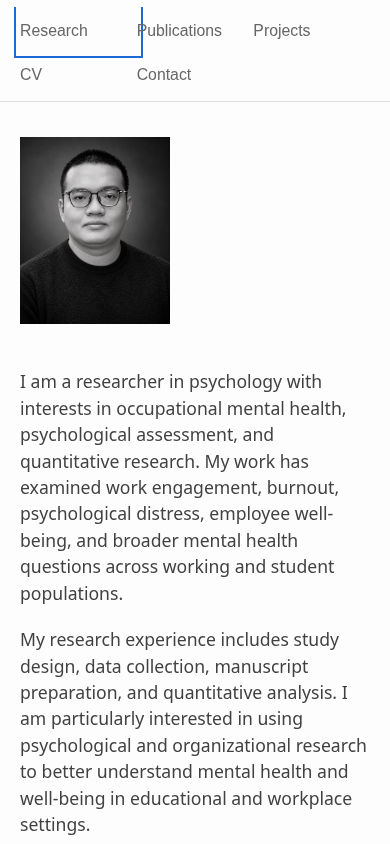
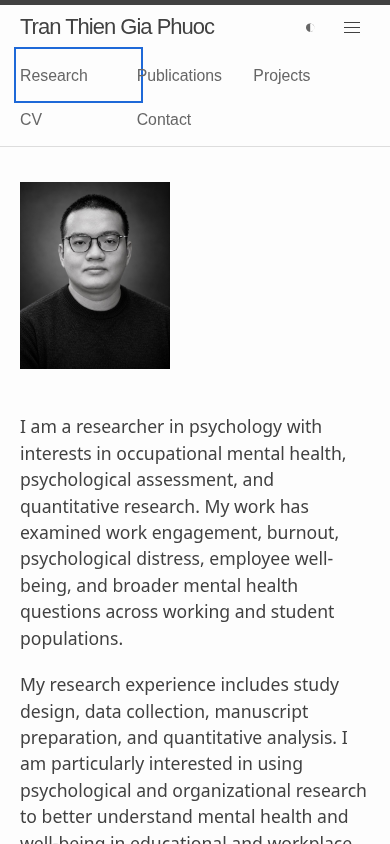
Extend approved editorial design to all academic pages

Changed region(s): [[0.0, 0.0, 1.0, 1.0]]

diff --git a/_sass/custom.scss b/_sass/custom.scss
@@ -325,3 +325,28 @@ img { max-width: 100%; height: auto; }
   #main { display: block; max-width: none; margin: 0; padding: 0; }
   body.editorial-site { font-size: 11pt; background: #fff; color: #000; }
 }
+
+/* Page-specific academic records, sharing the approved editorial foundation. */
+.section-nav { display: flex; flex-wrap: wrap; gap: 0.4rem 1.2rem; margin: 1.5rem 0 2rem; padding: 0.7rem 0; border-top: 1px solid var(--rule); border-bottom: 1px solid var(--rule); font-size: 0.8125rem; }
+.publication-stats { display: grid; grid-template-columns: repeat(4, minmax(0, 1fr)); gap: 1rem 1.5rem; margin: 1.6rem 0 1rem; padding: 1rem 0; border-top: 1px solid var(--rule); border-bottom: 1px solid var(--rule); }
+.publication-stat { display: flex; align-items: baseline; gap: 0.6rem; min-width: 0; }
+.publication-stat__value { font-size: 1.15rem; }
+.publication-stat__label { color: var(--text-muted); font-size: 0.75rem; }
+.page__content .publication-stats-note { font-size: 0.75rem; color: var(--text-muted); }
+.publication-card { margin: 0 0 1.6rem; padding: 0; border: 0; background: transparent; }
+.publication-citation > p { margin: 0 0 0.4rem; padding-left: 1.4rem; text-indent: -1.4rem; }
+.publication-meta { display: flex; flex-wrap: wrap; gap: 0.3rem 0.8rem; margin-left: 1.4rem; color: var(--text-muted); font-size: 0.75rem; }
+.publication-badge { display: inline; padding: 0; border: 0; font-weight: 400; }
+.project-card { margin: 0 0 2.5rem; padding: 0; border: 0; background: transparent; }
+.project-card + .project-card { padding-top: 0.5rem; border-top: 1px solid var(--rule); }
+.project-details { display: grid; grid-template-columns: 10rem minmax(0, 1fr); gap: 0.4rem 1rem; margin: 1.2rem 0; font-size: 0.9rem; }
+.project-details dt { font-weight: 500; color: var(--text-muted); }
+.project-details dd { margin: 0; overflow-wrap: anywhere; }
+@media (max-width: 639px) {
+  .publication-stats { grid-template-columns: repeat(2, minmax(0, 1fr)); gap: 1rem; }
+  .project-details { grid-template-columns: 1fr; gap: 0.25rem; }
+  .project-details dd { margin-bottom: 0.65rem; }
+  .cv-actions .btn { min-height: 44px; display: inline-flex; align-items: center; }
+}
+.project-card h2 { font-size: 1.25rem; }
+.project-details dt, .project-details dd { margin-top: 0; font-size: 0.9rem; line-height: 1.6; }

diff --git a/_pages/publications.md b/_pages/publications.md
@@ -2,7 +2,7 @@
 permalink: /publications/
 title: "Publications"
 description: "Peer-reviewed publications, ongoing work, conference papers, DOI links, and indexing information from the academic CV of Tran Thien Gia Phuoc."
-author_profile: true
+author_profile: false
 ---
 
 This page follows the publication list in my academic CV last synchronized on **{{ site.data.cv_sync_state.cv_date | default: "2026-10-17" | date: "%-d %B %Y" }}**. Publication counts and indexing summaries below are generated automatically from the metadata attached to each entry.
@@ -18,11 +18,11 @@ This page follows the publication list in my academic CV last synchronized on **
 {% assign esci = published | where: "esci", true %}
 
 <div class="publication-stats" aria-label="Publication statistics">
-  <div class="publication-stat publication-stat--green">
+  <div class="publication-stat">
     <span class="publication-stat__value">{{ original_research | size }}</span>
     <span class="publication-stat__label">Original Research</span>
   </div>
-  <div class="publication-stat publication-stat--purple">
+  <div class="publication-stat">
     <span class="publication-stat__value">{{ conference_papers | size }}</span>
     <span class="publication-stat__label">Conference Papers</span>
   </div>
@@ -42,17 +42,17 @@ This page follows the publication list in my academic CV last synchronized on **
     <span class="publication-stat__value">{{ q4 | size }}</span>
     <span class="publication-stat__label">SCOPUS Q4</span>
   </div>
-  <div class="publication-stat publication-stat--index">
+  <div class="publication-stat">
     <span class="publication-stat__value">{{ ssci | size }}</span>
     <span class="publication-stat__label">SSCI</span>
   </div>
-  <div class="publication-stat publication-stat--index">
+  <div class="publication-stat">
     <span class="publication-stat__value">{{ esci | size }}</span>
     <span class="publication-stat__label">ESCI</span>
   </div>
 </div>
 
-<p class="publication-stats-note"><i class="fa-solid fa-circle-info" aria-hidden="true"></i> Counts include published outputs only. Ongoing work is displayed below but excluded from the statistics. “Original Research” excludes entries classified as reviews or conference papers. Q1–Q4 counts refer specifically to Scopus quartiles recorded in the publication metadata.</p>
+<p class="publication-stats-note">Counts include published outputs only. Ongoing work is displayed below but excluded from the statistics. “Original Research” excludes entries classified as reviews or conference papers. Q1–Q4 counts refer specifically to Scopus quartiles recorded in the publication metadata.</p>
 
 {% assign ongoing = site.data.publications | where: "status", "ongoing" %}
 {% if ongoing.size > 0 %}
@@ -84,7 +84,7 @@ This page follows the publication list in my academic CV last synchronized on **
     {% if pub.ssci %}<span class="publication-badge publication-badge--index">SSCI</span>{% endif %}
     {% if pub.esci %}<span class="publication-badge publication-badge--index">ESCI</span>{% endif %}
     {% if pub.scopus_quartile %}<span class="publication-badge publication-badge--scopus">SCOPUS {{ pub.scopus_quartile }}{% if pub.scopus_quartile_year %} · {{ pub.scopus_quartile_year }}{% endif %}</span>{% endif %}
-    {% if pub.doi %}<a class="publication-badge publication-badge--doi" href="{{ pub.doi }}" rel="noopener noreferrer"><i class="fa-solid fa-arrow-up-right-from-square" aria-hidden="true"></i> DOI</a>{% endif %}
+    {% if pub.doi %}<a class="publication-badge publication-badge--doi" href="{{ pub.doi }}" rel="noopener noreferrer">DOI</a>{% endif %}
   </div>
   {% endif %}
 </article>

diff --git a/_pages/projects.md b/_pages/projects.md
@@ -2,25 +2,26 @@
 permalink: /projects/
 title: "Projects"
 description: "Research projects involving occupational, behavioral, and psychological research, including project roles, funding, methods, and outcomes."
-author_profile: true
+author_profile: false
 ---
 
-This page presents the research projects listed in my academic CV dated **2 March 2026**. Project details are generated from a single structured data source used across the website and CV.
+This page presents the research projects listed in my academic CV last synchronized on **{{ site.data.cv_sync_state.cv_date | date: "%-d %B %Y" }}**. Project details are generated from a single structured data source used across the website and CV.
 
 {% for project in site.data.projects %}
-{% assign project_tone = forloop.index0 | modulo: 5 | plus: 1 %}
-<section class="project-card project-card--{{ project_tone }}" data-project-id="{{ project.id }}" markdown="1">
+<section class="project-card" data-project-id="{{ project.id }}" markdown="1">
 
 ## {{ project.title }}
 
-**Period:** {{ project.period }} [{{ project.status }}]  
-**Role:** {{ project.role }}  
-**Institution:** {{ project.institution }}  
-**Project type:** {{ project.project_type }}  
-**Project code:** {{ project.project_code }}  
-**Principal Investigator:** {{ project.principal_investigator }}  
-**Funding:** {{ project.funding_vnd }} ({{ project.funding_usd }})  
-**Outcome:** {{ project.outcome }}
+<dl class="project-details">
+  <dt>Period</dt><dd>{{ project.period }} [{{ project.status }}]</dd>
+  <dt>Role</dt><dd>{{ project.role }}</dd>
+  <dt>Institution</dt><dd>{{ project.institution }}</dd>
+  <dt>Project type</dt><dd>{{ project.project_type }}</dd>
+  <dt>Project code</dt><dd>{{ project.project_code }}</dd>
+  <dt>Principal Investigator</dt><dd>{{ project.principal_investigator }}</dd>
+  <dt>Funding</dt><dd>{{ project.funding_vnd }} ({{ project.funding_usd }})</dd>
+  <dt>Outcome</dt><dd>{{ project.outcome }}</dd>
+</dl>
 
 {% if project.details %}{{ project.details }}{% endif %}
 

diff --git a/docs/redesign/verification.md b/docs/redesign/verification.md
@@ -73,3 +73,12 @@ The live reference website, TeX source and reference PDF were accessible after t
 - PASS: unchanged academic YAML, sync-state records, generated profile, PDF generator, tracked public files and existing workflows compared with origin/master. The private checkout remains clean.
 - Visual inspection performed on desktop/mobile homepage, mobile menu and dark homepage screenshots, plus desktop Research and mobile CV pages. Portraits and existing PDF preview load.
 - Remote status: draft PR [#21](https://github.com/ttgpPsychMH/ttgpPsychMH.github.io/pull/21) is open. Consult its checks for current GitHub Actions results. Production has not been merged or deployed.
+
+
+## Phase 2 — approved direction extended to all pages
+
+After the owner approved Phase 1, Research, Publications, Projects, CV and Contact were changed to the same readable single-column layout. Bibliography entries have hanging indents and understated indexing/DOI metadata. Publication statistics remain data-driven, displayed without cards. Projects retain every metadata field in responsive definition lists; their displayed sync date now comes from the actual sync state. Research has keyboard-accessible section links, and the CV has a link directly to its web version. No academic records, generated profile, private workflow or PDF generator was changed in this website phase.
+
+[Research desktop](previews/research-1440.png) · [Publications desktop](previews/publications-1440.png) · [Projects mobile](previews/projects-390.png) · [CV desktop](previews/cv-1440.png) · [Contact mobile](previews/contact-390.png).
+
+Local checks repeated after these changes: all 30 page/viewport browser checks, theme/keyboard/storage checks, 8 portrait regressions, and all 3 PDF/Jekyll/import scenarios passed. Website approval does not itself approve the separately redesigned PDF.

diff --git a/_pages/cv.md b/_pages/cv.md
@@ -3,14 +3,15 @@ layout: archive
 title: "Curriculum Vitae"
 description: "Academic curriculum vitae of Tran Thien Gia Phuoc, including education, research experience, publications, academic service, awards, training, and research projects."
 permalink: /cv/
-author_profile: true
+author_profile: false
 redirect_from:
   - /resume
 ---
 
 <div class="cv-actions">
-  <a class="btn cv-download" href="/files/Tran_Thien_Gia_Phuoc_Academic_CV.pdf"><i class="fa-solid fa-file-arrow-down" aria-hidden="true"></i> Download Academic CV (PDF)</a>
-  <a class="btn cv-open" href="/files/Tran_Thien_Gia_Phuoc_Academic_CV.pdf" target="_blank" rel="noopener noreferrer"><i class="fa-solid fa-up-right-from-square" aria-hidden="true"></i> Open PDF in New Tab</a>
+  <a class="btn cv-download" href="/files/Tran_Thien_Gia_Phuoc_Academic_CV.pdf">Download Academic CV (PDF)</a>
+  <a class="btn" href="#web-cv">Read Web CV</a>
+  <a class="btn cv-open" href="/files/Tran_Thien_Gia_Phuoc_Academic_CV.pdf" target="_blank" rel="noopener noreferrer">Open PDF in New Tab</a>
 </div>
 
 ## PDF Preview

diff --git a/_pages/research.md b/_pages/research.md
@@ -2,10 +2,12 @@
 permalink: /research/
 title: "Research"
 description: "Research interests, methods, laboratory experience, and academic service of Tran Thien Gia Phuoc across occupational mental health, psychological assessment, and cognitive-behavioral research."
-author_profile: true
+author_profile: false
 ---
 
 My research focuses on occupational mental health and psychological assessment within the field of industrial psychology. I am particularly interested in work engagement, burnout, psychological distress, and overall mental health among employees. In addition, I have research interests in broader mental health issues among young adults and other populations. I am also exploring topics in cognitive psychology to strengthen my theoretical and methodological foundations.
+
+<nav class="section-nav" aria-label="Research sections"><a href="#research-areas">Research areas</a><a href="#research-expertise-and-methods">Methods</a><a href="#research-experience">Experience</a><a href="#academic-service">Service</a></nav>
 
 ## Research areas
 

diff --git a/README.md b/README.md
@@ -8,7 +8,7 @@ The site presents my research interests, publications, research projects, academ
 
 ## Redesign review
 
-The `design/academic-editorial-homepage` branch contains the Phase 1 homepage prototype and shared design foundation inspired by Geoff Boeing's current academic site. Production merging requires the owner's visual approval. Page-specific refinements and the PDF redesign are later phases.
+The `design/academic-editorial-homepage` branch contains the approved homepage direction and the remaining page redesign inspired by Geoff Boeing's current academic site. Publications retain their shared data and academic citations; project metadata uses a simple definition list; all core pages use a readable single column. Production merging remains subject to review. PDF typography is reviewed in a separate PR.
 
 - [Reference audit, architecture inventory, and design specification](docs/redesign/design-audit.md)
 - [Preview images, test commands, and verification report](docs/redesign/verification.md)

diff --git a/_pages/contact.md b/_pages/contact.md
@@ -2,7 +2,7 @@
 permalink: /contact/
 title: "Contact"
 description: "Academic contact information and verified scholarly profiles for Tran Thien Gia Phuoc, including ORCID, Google Scholar, ResearchGate, Scopus, Web of Science, and GitHub."
-author_profile: true
+author_profile: false
 ---
 
 I welcome academic correspondence concerning research, collaboration, scholarly exchange, peer review, and related professional activities.
